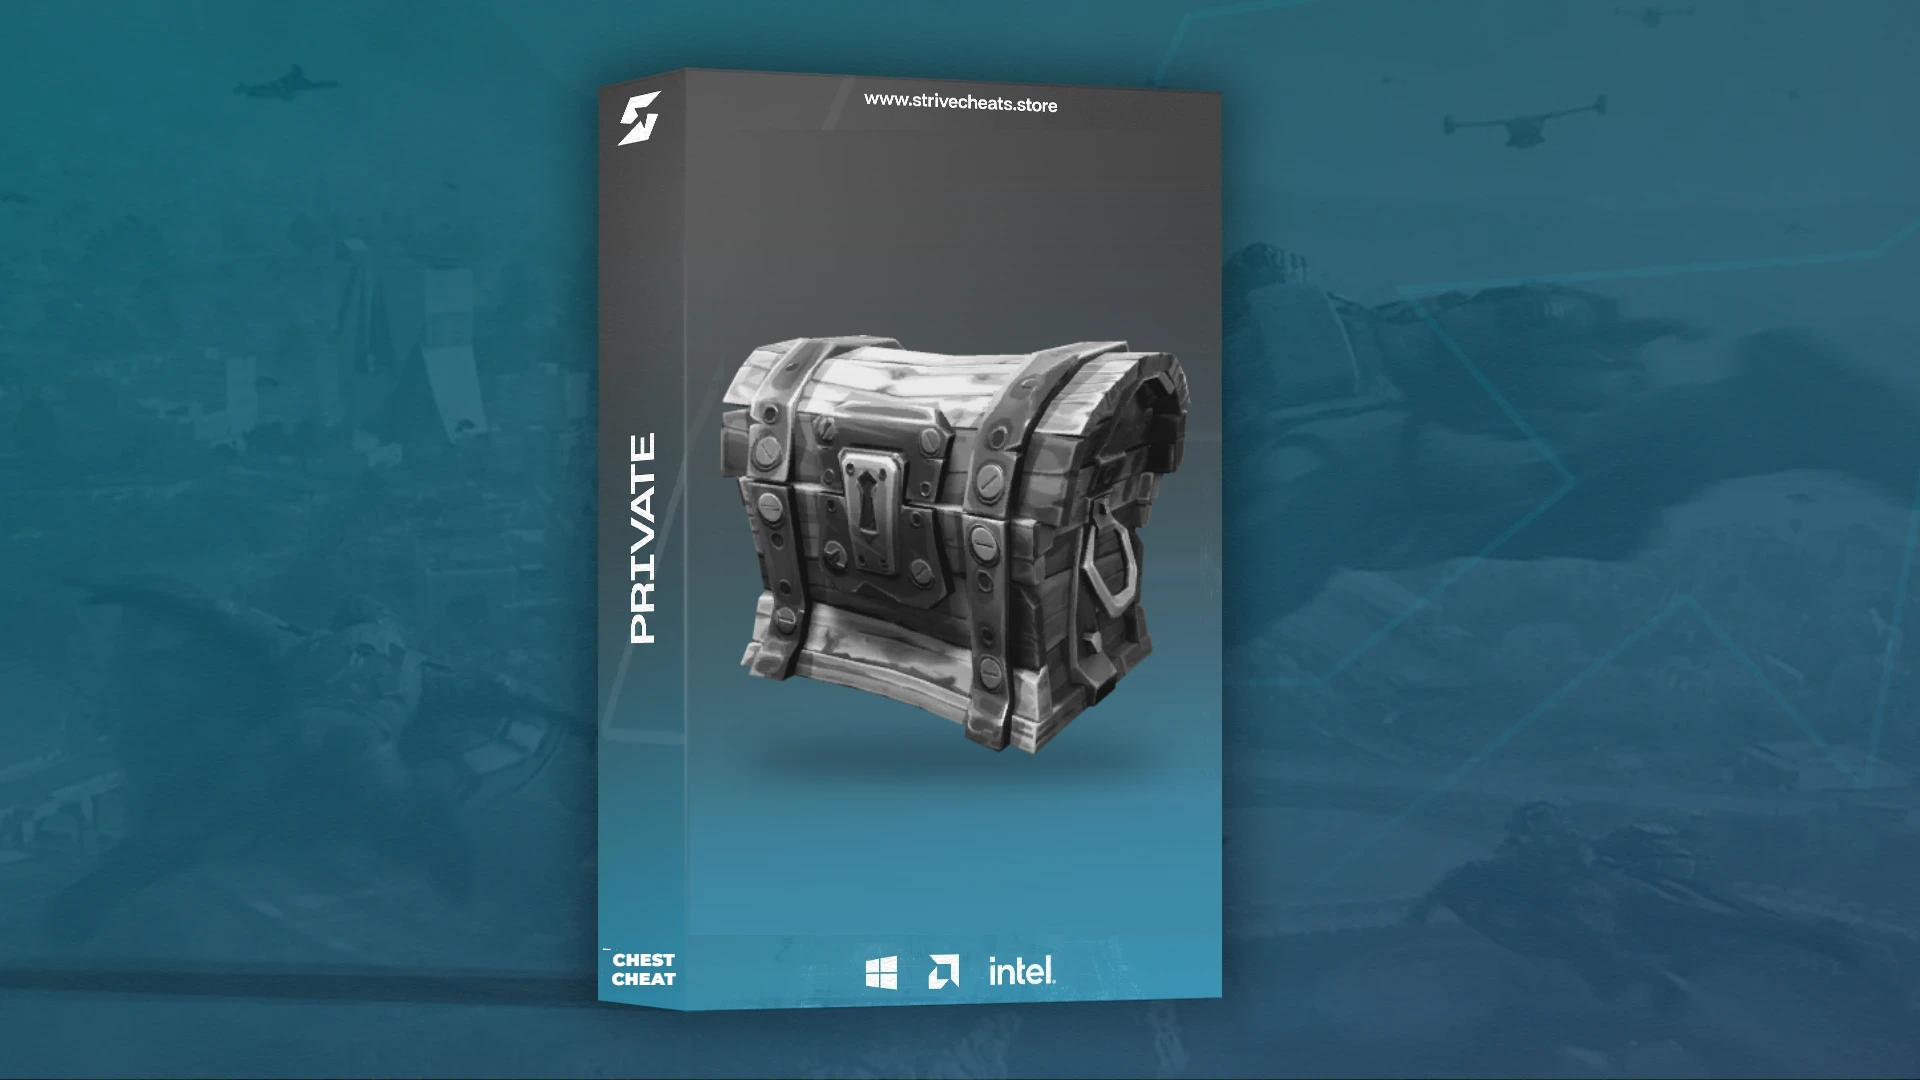
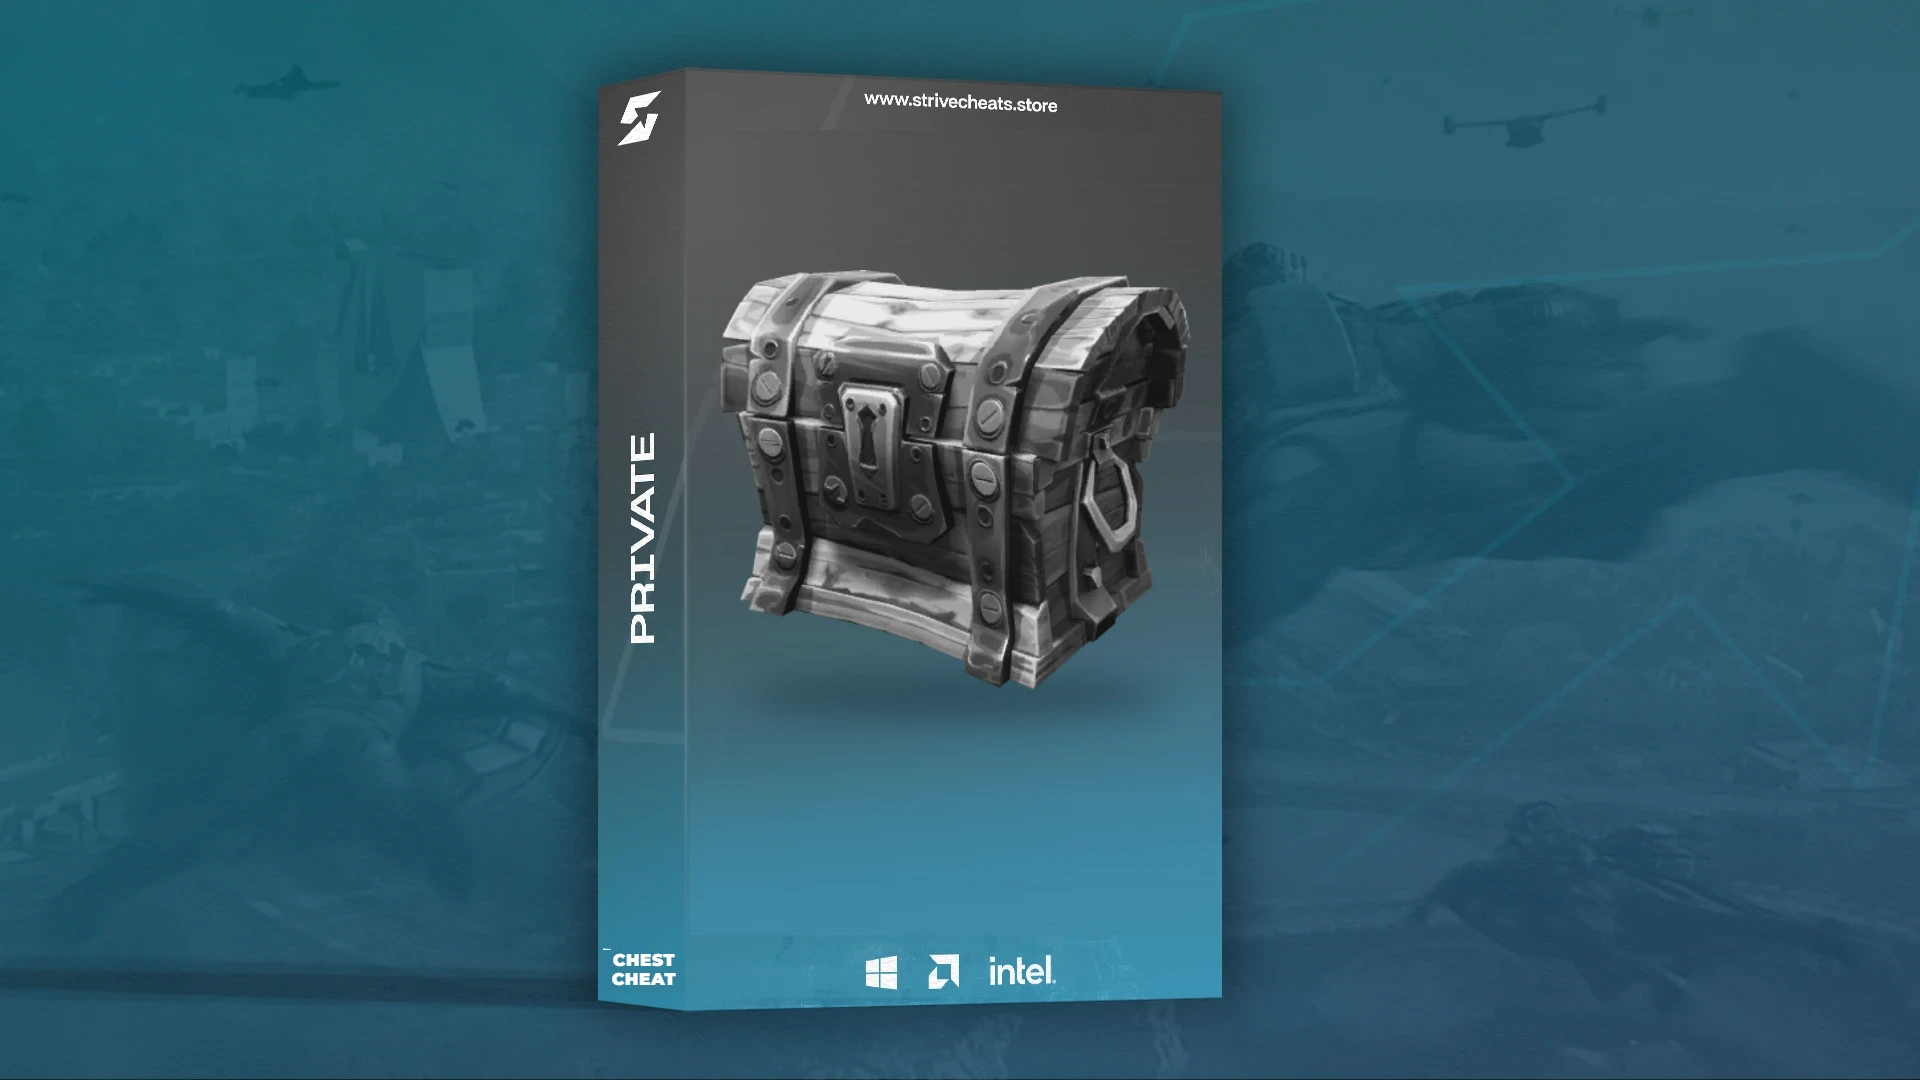
Boxes: sharper, more detailed Rob Run officer; Chest Cheat chest higher

Changed region(s): [[0.375, 0.2444, 0.625, 0.7333]]

diff --git a/local/boxmaker.html b/local/boxmaker.html
@@ -32,6 +32,13 @@ function greyscale(src, lo = 20, span = 215) {
   for (let i = 0; i < d.length; i += 4) { let v = clamp((lum(d, i) - a) / (b - a)); v = v * v * (3 - 2 * v) * .5 + v * .5; d[i] = d[i + 1] = d[i + 2] = Math.round(lo + v * span); }
   gx.putImageData(id, 0, 0); return g;
 }
+// bring out detail in a (soft, upscaled) grey cut-out: unsharp mask at two radii (fine edges + local contrast), alpha untouched
+function detail(src, fine = 1.4, fineAmt = 1.1, wide = 22, wideAmt = .55) {
+  const w = src.width, h = src.height, mkBlur = r => { const b = mk(w, h), bx = b.getContext("2d", { willReadFrequently: true }); bx.filter = "blur(" + r + "px)"; bx.drawImage(src, 0, 0); return bx.getImageData(0, 0, w, h).data; };
+  const sx = src.getContext("2d", { willReadFrequently: true }), id = sx.getImageData(0, 0, w, h), d = id.data, b1 = mkBlur(fine), b2 = mkBlur(wide);
+  for (let i = 0; i < d.length; i += 4) { if (d[i + 3] < 8) continue; const v = d[i] + fineAmt * (d[i] - b1[i]) + wideAmt * (d[i] - b2[i]); d[i] = d[i + 1] = d[i + 2] = v < 0 ? 0 : v > 255 ? 255 : v; }
+  const out = mk(w, h); out.getContext("2d").putImageData(id, 0, 0); return out;
+}
 // the police officer from the Rob Run key art (outline traced like in recolor.html)
 async function copCut() {
   const im = await load("/local/src/dl-bg/robrun-key.webp");
@@ -83,9 +90,13 @@ async function makeBox(j) {
   const tpl = await template(), c = mk(W, H), x = c.getContext("2d"); x.drawImage(tpl, 0, 0);
   // the character, grey with the boxes' contrast, inside the front (x 690..1222, y 135..935)
   x.save(); x.beginPath(); x.rect(690, 135, 532, 800); x.clip();
-  const sub = await j.subject(), g = greyscale(sub), sc = Math.min(j.maxW / g.width, j.maxH / g.height), dw = g.width * sc, dh = g.height * sc, px = 956 - dw / 2 + (j.dx || 0), py = j.bottom ? 935 - dh : 535 - dh / 2 + (j.dy || 0);
+  const sub = await j.subject(), g0 = greyscale(sub), g = j.sharpen ? detail(g0) : g0, sc = Math.min(j.maxW / g.width, j.maxH / g.height), dw = g.width * sc, dh = g.height * sc, px = 956 - dw / 2 + (j.dx || 0), py = j.bottom ? 935 - dh : 535 - dh / 2 + (j.dy || 0);
   if (!j.bottom) { x.save(); x.filter = "blur(18px)"; x.fillStyle = "rgba(30,50,60,.55)"; x.beginPath(); x.ellipse(px + dw / 2, py + dh + 6, dw * .45, 22, 0, 0, Math.PI * 2); x.fill(); x.restore(); }
   x.drawImage(g, px, py, dw, dh);
+  // retouch: clone clean cloth over a leftover square (from painting the mouse cursor out of the source art), feathered edge
+  if (j.clone) { const [cx0, cy0, cw, ch, fx, fy] = j.clone, snap = mk(cw, ch), sx = snap.getContext("2d"); sx.drawImage(c, fx, fy, cw, ch, 0, 0, cw, ch);
+    sx.globalCompositeOperation = "destination-in"; const rg = sx.createRadialGradient(cw / 2, ch / 2, Math.min(cw, ch) * .25, cw / 2, ch / 2, Math.min(cw, ch) * .52); rg.addColorStop(0, "#000"); rg.addColorStop(1, "rgba(0,0,0,0)"); sx.fillStyle = rg; sx.fillRect(0, 0, cw, ch);
+    x.drawImage(snap, cx0, cy0); }
   // soft fog where the character meets the bottom of the front (like the other boxes)
   const fg = x.createLinearGradient(0, 760, 0, 935); fg.addColorStop(0, "rgba(61,138,166,0)"); fg.addColorStop(1, "rgba(61,139,168,.9)"); x.fillStyle = fg; x.fillRect(690, 760, 532, 175);
   x.restore();
@@ -95,8 +106,8 @@ async function makeBox(j) {
   lines.forEach((ln, i) => x.fillText(ln, 644, (lines.length > 1 ? 966 : 972) + i * 19));   // centred on the spine, near its bottom
   return c;
 }const JOBS = [
-  { out: "box-chest-cheat.webp", art: "/local/cards/bg-fortnite.webp", spine: "PRIVATE", tag: "CHEST|CHEAT", subject: chestCut, maxW: 500, maxH: 420, dy: 10 },
-  { out: "box-rob-run.webp", art: "/local/src/dl-bg/robrun-shot2.jpg", spine: "PRIVATE", tag: "ROB RUN", subject: copCut, maxW: 530, maxH: 800, bottom: true }
+  { out: "box-chest-cheat.webp", art: "/local/cards/bg-fortnite.webp", spine: "PRIVATE", tag: "CHEST|CHEAT", subject: chestCut, maxW: 500, maxH: 420, dy: -55 },
+  { out: "box-rob-run.webp", art: "/local/src/dl-bg/robrun-shot2.jpg", spine: "PRIVATE", tag: "ROB|RUN", sharpen: true, clone: [1066, 618, 70, 70, 1066, 538], subject: copCut, maxW: 530, maxH: 800, bottom: true }
 ];
 (async () => {
   try {
